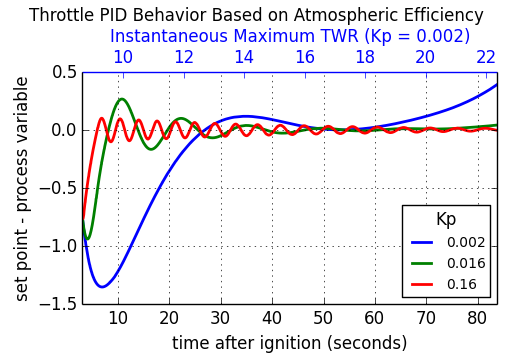
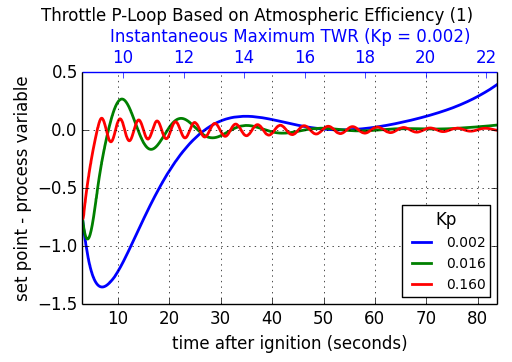
plot showing tuned pid loop

Changed region(s): [[0.0625, 0.0, 0.9375, 0.0608], [0.9375, 0.7597, 0.9688, 0.7901]]

diff --git a/source/summary_topics/pidloop_tutorial.md b/source/summary_topics/pidloop_tutorial.md
@@ -254,7 +254,16 @@ After every launch completes, you'll have to go into the archive directory and r
 
 ![PID Tuning 1](../images/pidtune/pidtune1.png)
 
-The value of 0.002 is obviously too low. The settling time is well over 20 seconds and the loop can't keep up with the increase in terminal velocity at the higher altitudes reached after one minute. When Kp = 0.016, the behavior is far more well behaved, and though some oscillation exists, it's damped and slow. At Kp = 0.160, the oscillations become prominent and we can start to measure the change in amplitude along with the period of the oscillations.
+The value of 0.002 is obviously too low. The settling time is well over 20 seconds and the loop can't keep up with the increase in terminal velocity at the higher altitudes reached after one minute. When Kp = 0.016, the behavior is far more well behaved, and though some oscillation exists, it's damped and slow with a period of about 10 seconds. At Kp = 0.160, the oscillations are prominent and we can start to measure the change in amplitude along with the period of the oscillations. This plot shows the data for Kp = 0.160 from 20 to 40 seconds after ignition. The peaks are found and are fit to a line.
 
 ![PID Tuning 2](../images/pidtune/pidtune2.png)
+
+This is done for each value of Kp and the slopes of the fitted lines are plotted as a function of Kp in the following plot:
+
 ![PID Tuning 3](../images/pidtune/pidtune3.png)
+
+The period of oscillation was averaged over the interval and plotted on top of the amplitude change over time. Notice the turn over that occurs when Kp reaches approximately 0.26. This will mark the "ultimate gain" and 6.0 will be used as the associated period of oscillation. It is left as an exercise for the reader to implement a full PID-loop using the classic PID values (see table above): Kp = 0.156, Ki = 0.052, Kd = 0.117, producing this behavior:
+
+![PID Tuning 4](../images/pidtune/pidtune4.png)
+
+The settling time of the feedback loop is now less than 10 seconds! The inset plot has the same axes as the parent and is there to show the long-term stability of the final PID-loop.
